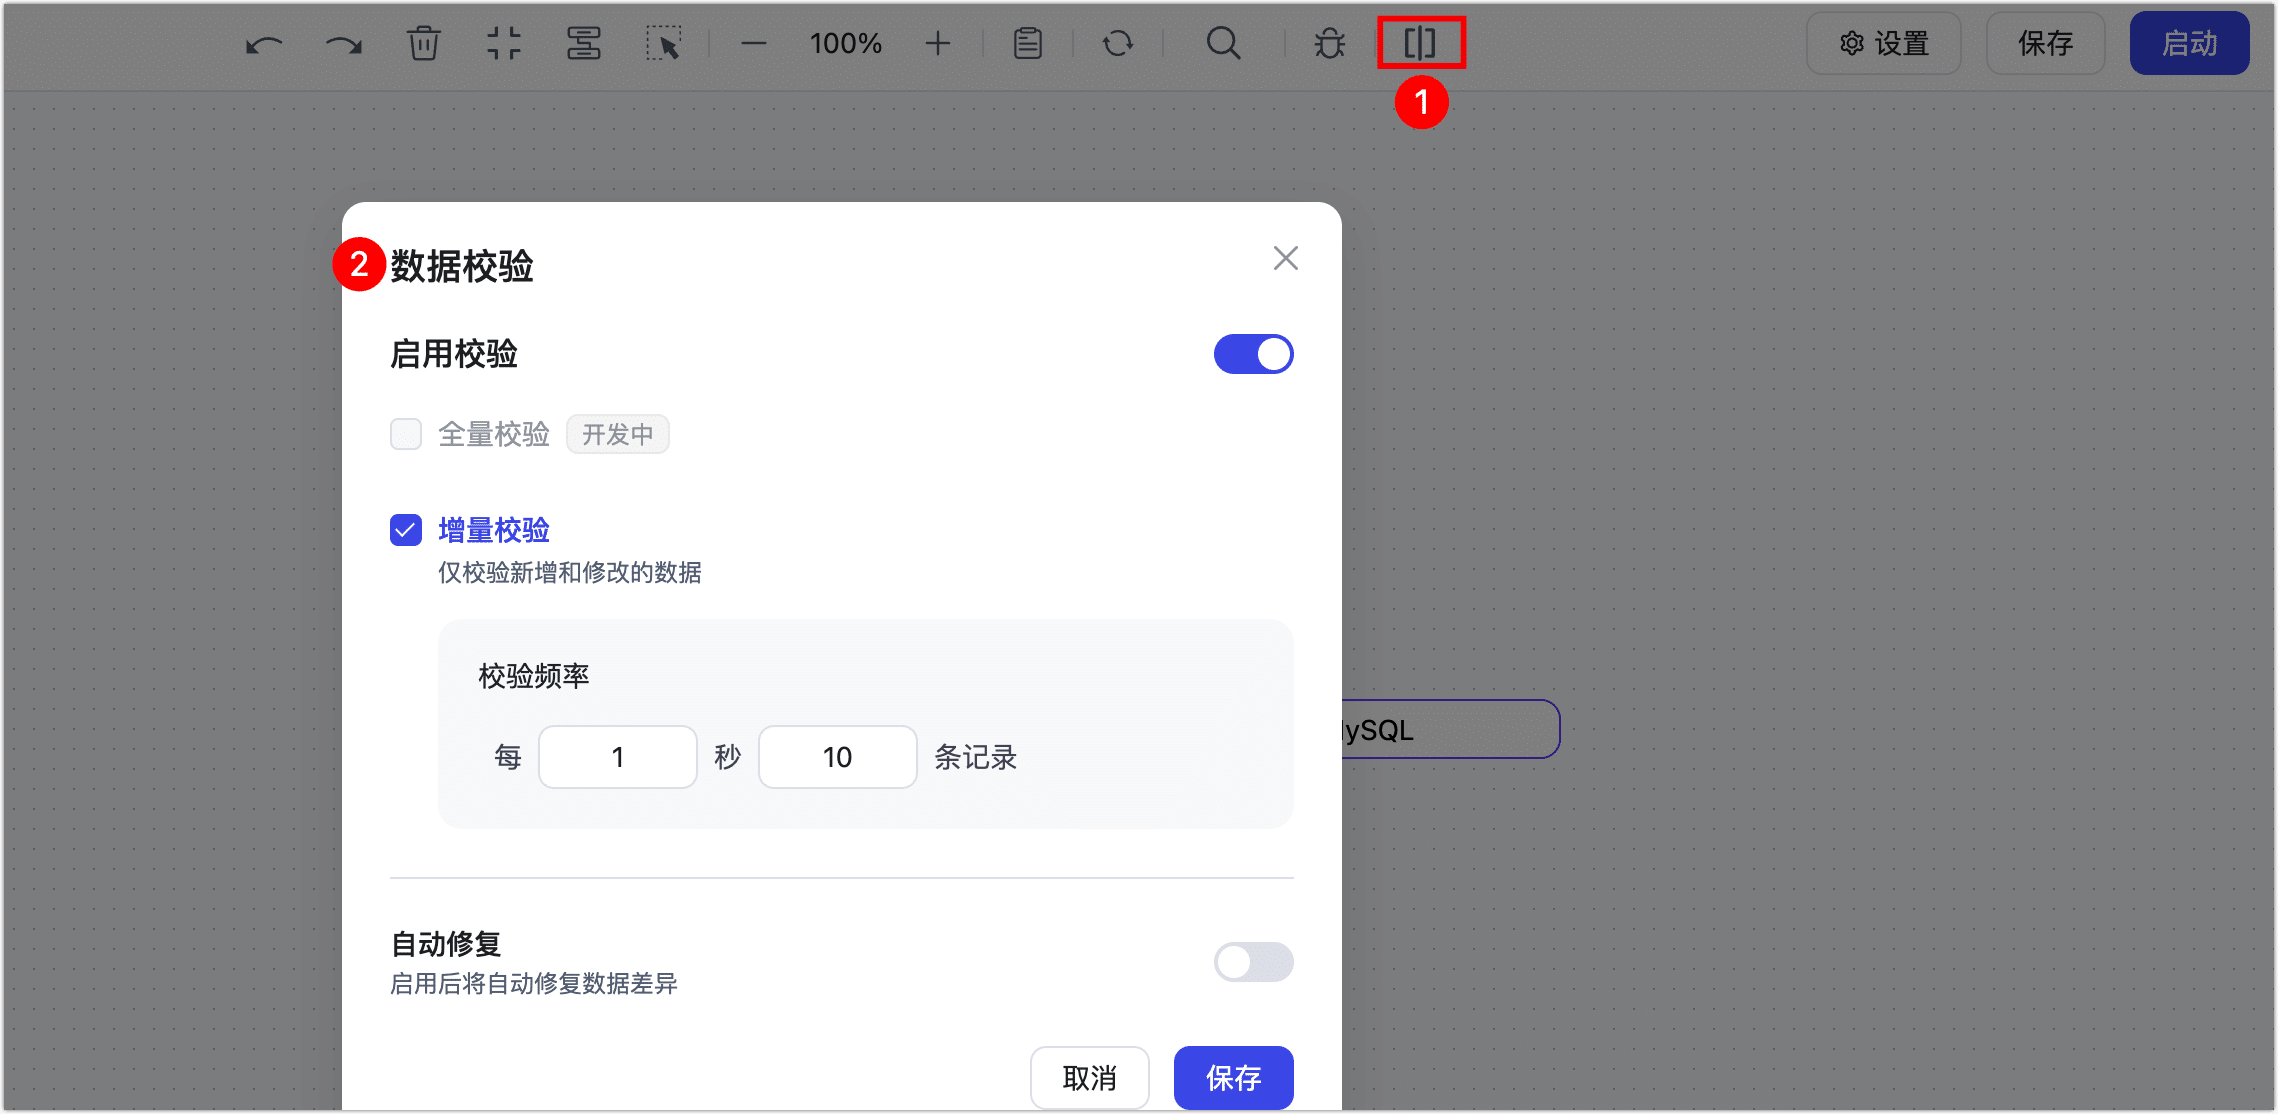
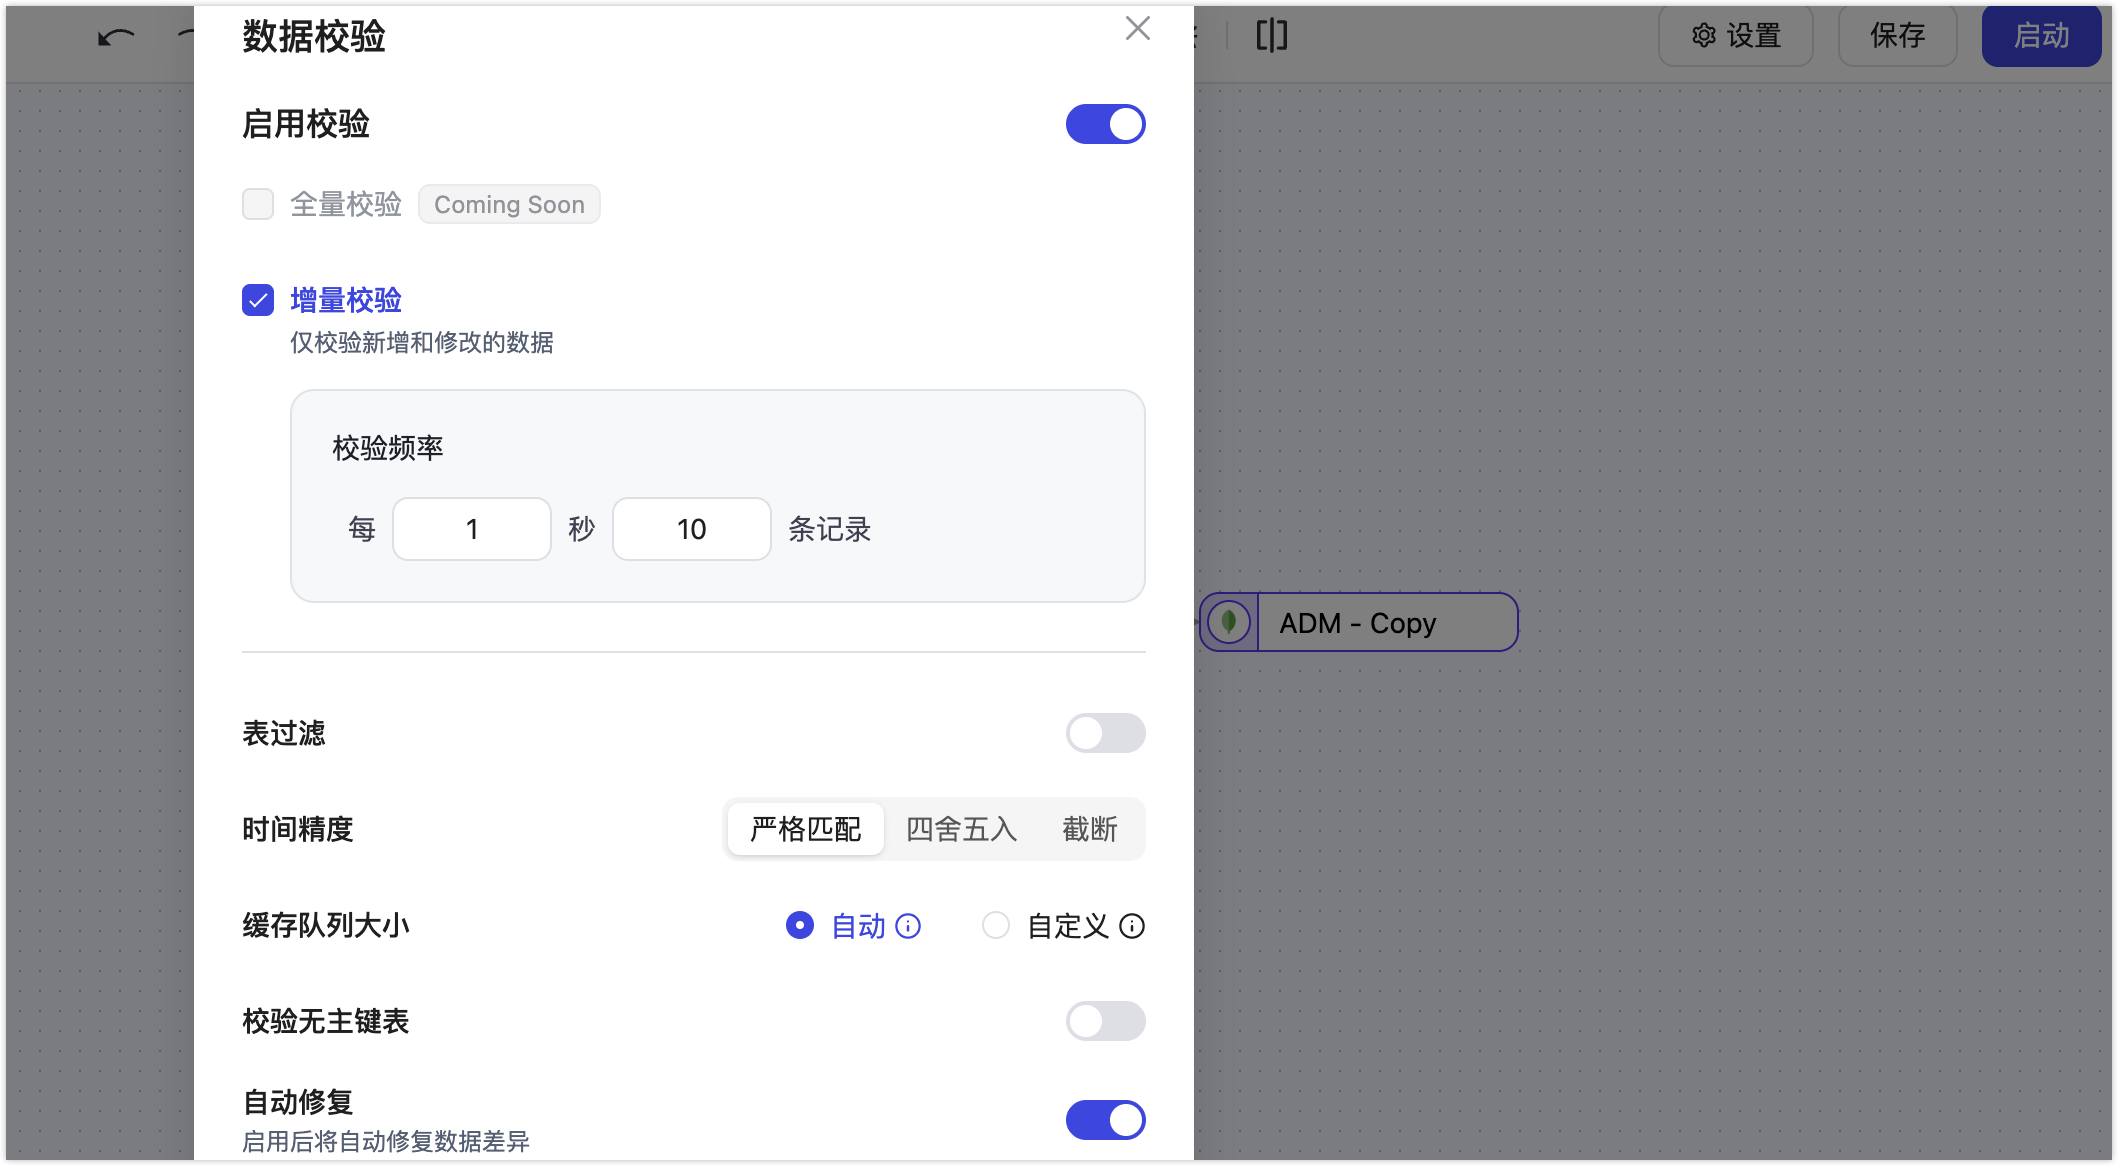
Release 4.11.0 part 1

diff --git a/docs/user-guide/incremental-check.md b/docs/user-guide/incremental-check.md
@@ -40,6 +40,10 @@ import Content from '../reuse-content/_enterprise-features.md';
 
    - **增量校验**：启用后可对新增或更新的数据进行抽样校验，及时发现同步过程中的数据差异问题。
    - **校验频率**：控制每秒抽样校验的数据量，TapData 会按主键比对源库和目标库的记录，检查数据是否一致。默认每秒 10 条，建议根据业务压力调整。
+   - **表过滤**：支持配置需要校验的表名，默认校验所有表，可选择包含指定表或排除指定表，您也可以通过正则表达式筛选需要校验的表，更好满足定制化需求。
+   - **时间精度**：支持严格匹配、四舍五入和截断，默认严格匹配，即要求源端和目标端的时间字段值完全一致。四舍五入和截断则允许一定的时间误差，适用于对时间精度要求不高的场景。
+   -  **队列缓存大小**：默认为自动，即系统根据任务的并发度和校验频率动态调整缓存大小，手动调大需要注意系统资源占用。
+   - **校验无主键表**：默认不校验无主键表，即仅校验包含主键的表。如果源端或目标端有无主键表，建议先配置好主键，或手动开启此选项。
    - **自动修复**：启用后，当发现数据不一致时，TapData 会自动从源端重新查询差异记录，并同步修复至目标端，确保数据一致性。
 
 5. 在启动任务前，建议前往页面右上角的**设置**，选择**告警设置**页签，开启任务校验相关的**邮件告警**并**选择收件人**，以便在发现数据不一致时及时收到通知。
@@ -61,5 +65,5 @@ import Content from '../reuse-content/_enterprise-features.md';
    ![差异详情](../images/review_incr_check_details.png)
 
    :::tip
-   发现差异时，可点击右上角“生成自定义修复 SQL”，一键导出差异 SQL 供 DBA 评估与精准修复。
+   发现差异时，可点击右上角“生成自定义修复 SQL”，一键导出差异 SQL 供 DBA 评估与精准修复。此外，还支持批量手动修复差异数据，确保数据一致性。
    :::

diff --git a/docs/release-notes/release-notes-on-prem.md b/docs/release-notes/release-notes-on-prem.md
@@ -17,6 +17,30 @@ import TabItem from '@theme/TabItem';
 <TabItem value="V4.x 版本" default>
 ```
 
+## 4.11.0
+
+### 新增功能
+
+- 发布 Db2 for i 连接器，支持主流数据源的同步与写入能力
+- [增量数据校验功能](../user-guide/incremental-check.md)支持批量手动校验与修复，并支持设置忽略指定表不执行校验，满足定制化需求
+- [主从合并节点](../user-guide/data-development/process-node.md#主从合并)支持子表缓存的重建能力，用于修复缓存不一致问题
+- 复制任务新增支持 MongoDB 作为目标端的精确一次写能力，确保写入幂等性与一致性
+- Sybase 连接器新增支持精确一次写能力
+- 任务日志新增支持输出 DDL 语句，提升排查与审计可读性
+- 支持对数据源增量读取批次进行自动调整，更好平衡吞吐性能与稳定性
+
+
+### 功能优化
+
+- API 审计日志详情优化，新增记录数据库响应时间
+- API 性能优化，提升整体请求处理效率
+- API 调试页面结果展示方式优化，提升用户可读性与调试体验
+- 优化主从合并任务进入增量阶段的判断逻辑，提升任务切换准确性
+
+### 问题修复
+
+- 修复特定场景下可能出现的内存泄露问题，提升系统稳定性
+
 ## 4.10.0
 
 ### 新增功能
